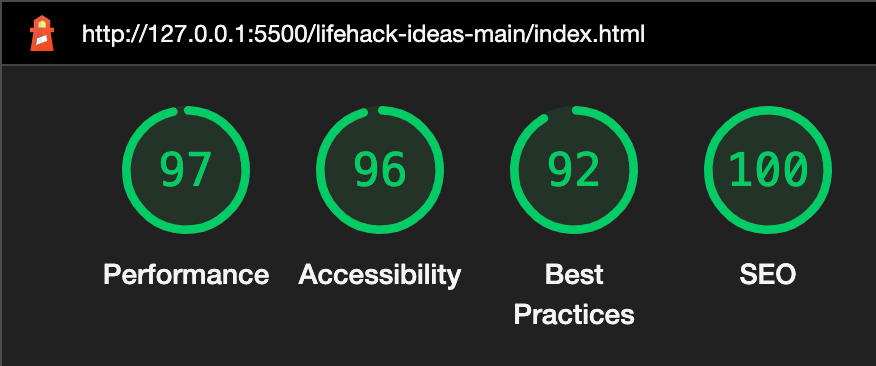
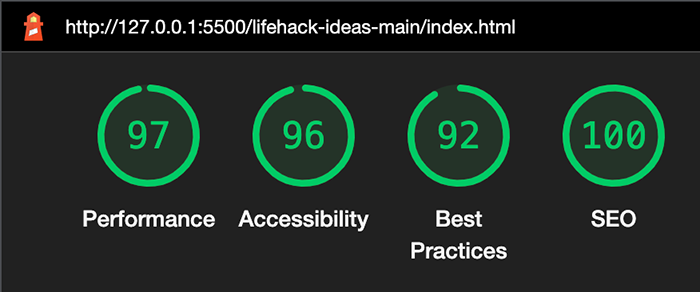
modify size of img in the lighthouse folder (tests)

diff --git a/README.md b/README.md
@@ -123,14 +123,23 @@ The website is comprised of ten pages, seven of which are accessible from the ca
 
   * A footer which contains social media icon links to facebook, instagram, twitter and github. For a cleaner look, the footer is included in the toggler burger menu in the case of screen heights less than 800px in the About, Contact and those pages that have just one row of life hack items (car & garage and other).
 
+  ![Index Page](docs/index.png)
+
 * About Page.
+
   This page gives users some information on the website. This is shown foreground above the life hack items shown in transparency.
+
+  ![Index Page](docs/about.png)
 
 * Contact Page.
   * Form
+
   The form contains fields for the users name, email address and a text area for the user to send a message or share their day-to-day life hacks. The form is shown foreground above the life hack items shown in transparency. The user submits the form using the submit button. Users must fill in the name, email and text area fields to be able to submit the form. If they don't a tooltip will guide them to fill in any information they have missed.
 
+  ![Index Page](docs/contact.png)
+
 * Future Implementations.
+
   * Add more life hack items and categories.
 
 ### Accessibility
@@ -238,60 +247,70 @@ I used Lighthouse within the Chrome Developer Tools to test the performance, acc
 #### Index Page
 
 Lighthouse testing:
+
 [Lighthouse Testing for Desktop Index Page](docs/testing/lighthouse/index_desk.png) ~
 [Lighthouse Testing for Mobile Index Page](docs/testing/lighthouse/index_mob.png)
 
 #### All Page
 
 Lighthouse testing:
+
 [Lighthouse Testing for Desktop Index Page](docs/testing/lighthouse/all_desk.png) ~
 [Lighthouse Testing for Mobile Index Page](docs/testing/lighthouse/all_mob.png)
 
 #### Car & Garage Page
 
 Lighthouse testing:
+
 [Lighthouse Testing for Desktop Index Page](docs/testing/lighthouse/car&garage_desk.png) ~
 [Lighthouse Testing for Mobile Index Page](docs/testing/lighthouse/car&garage_mob.png)
 
 #### Clothing Page
 
 Lighthouse testing:
+
 [Lighthouse Testing for Desktop Index Page](docs/testing/lighthouse/clothing_desk.png) ~
 [Lighthouse Testing for Mobile Index Page](docs/testing/lighthouse/clothing_mob.png)
 
 #### Cooking Page
 
 Lighthouse testing:
+
 [Lighthouse Testing for Desktop Index Page](docs/testing/lighthouse/cooking_desk.png) ~
 [Lighthouse Testing for Mobile Index Page](docs/testing/lighthouse/cooking_mob.png)
 
 #### Math Page
 
 Lighthouse testing:
+
 [Lighthouse Testing for Desktop Index Page](docs/testing/lighthouse/math_desk.png) ~
 [Lighthouse Testing for Mobile Index Page](docs/testing/lighthouse/math_mob.png)
 
 #### Travel Page
 
 Lighthouse testing:
+
 [Lighthouse Testing for Desktop Index Page](docs/testing/lighthouse/travel_desk.png) ~
 [Lighthouse Testing for Mobile Index Page](docs/testing/lighthouse/travel_mob.png)
 
 #### Other Page
 
 Lighthouse testing:
+
 [Lighthouse Testing for Desktop Index Page](docs/testing/lighthouse/other_desk.png) ~
 [Lighthouse Testing for Mobile Index Page](docs/testing/lighthouse/other_mob.png)
 
 #### About Page
 
 Lighthouse testing:
+
 [Lighthouse Testing for Desktop Index Page](docs/testing/lighthouse/about_desk.png) ~
 [Lighthouse Testing for Mobile Index Page](docs/testing/lighthouse/about_mob.png)
 
 #### Contact Page
 
 Lighthouse testing:
+
 [Lighthouse Testing for Desktop Index Page](docs/testing/lighthouse/contact_desk.png) ~
 [Lighthouse Testing for Mobile Index Page](docs/testing/lighthouse/contact_mob.png)
 
